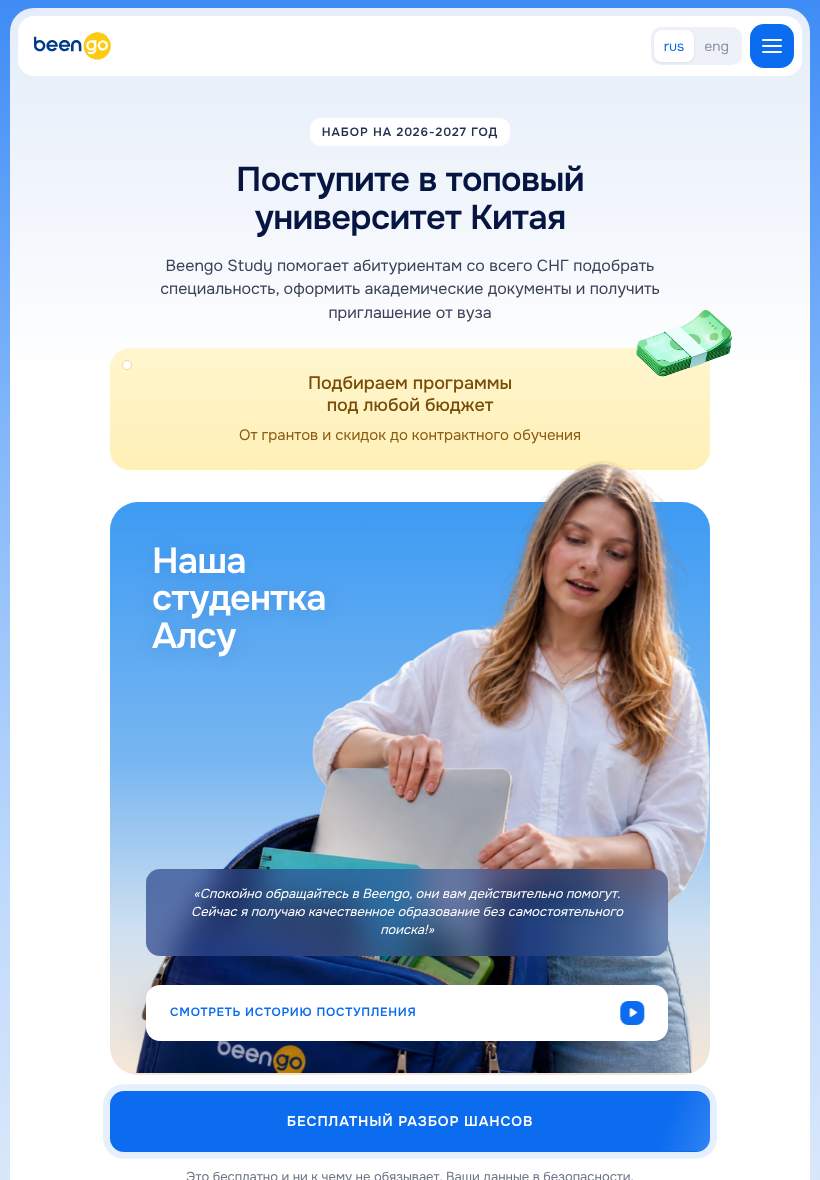
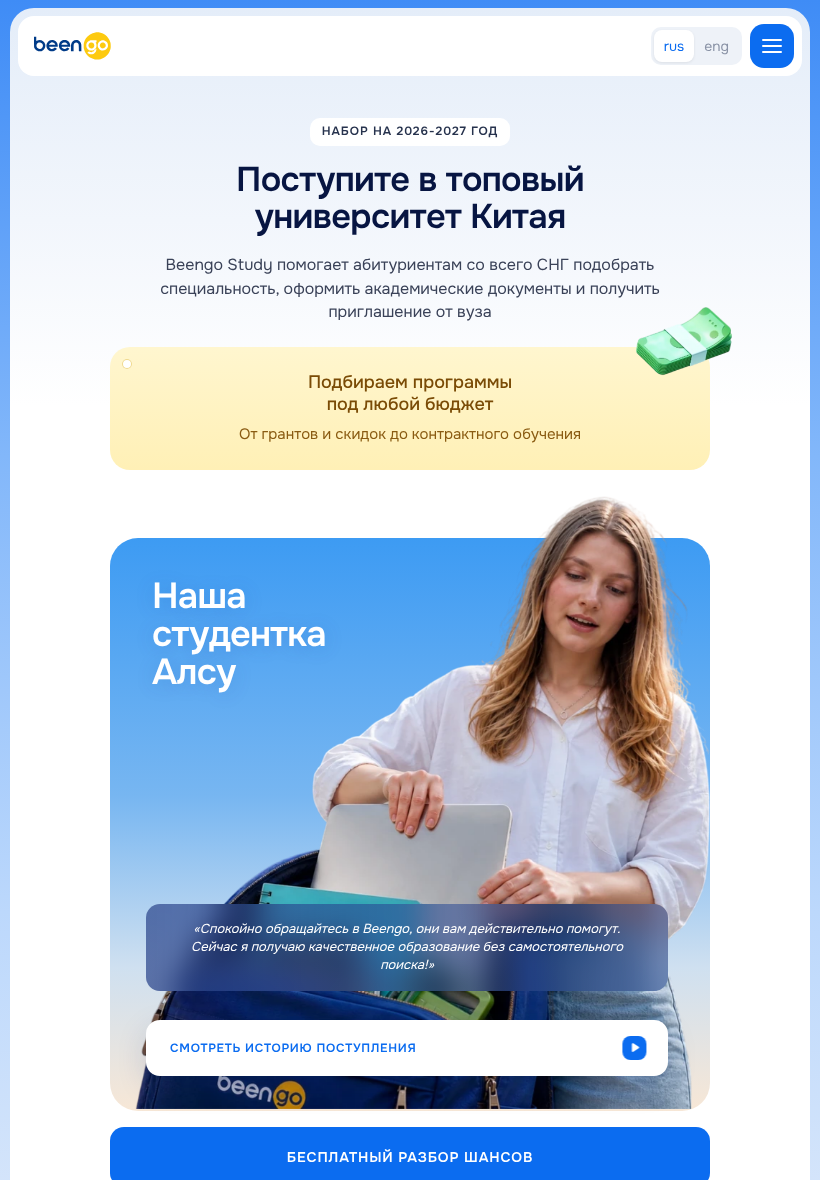
Mobile hero: Alsu head no longer covered by budget plate
Claude-Session: https://claude.ai/code/session_01DveQThDXrjAqWsCdBVYsEN

diff --git a/index.html b/index.html
@@ -2425,6 +2425,8 @@ a.uni-card:hover{box-shadow:0 14px 34px rgba(19,52,120,.10)}
 .pv-img{background:none!important}
 .pv-img img{width:100%;height:100%;object-fit:cover;display:block}
 @media (max-width:680px){.pv-img{aspect-ratio:1710/750!important}}
+
+@media (max-width:980px){.hero-card{position:relative;z-index:2;margin-top:44px!important}.hero-text .budget{position:relative;z-index:1}}
 </style>
 </head>
 <body>
